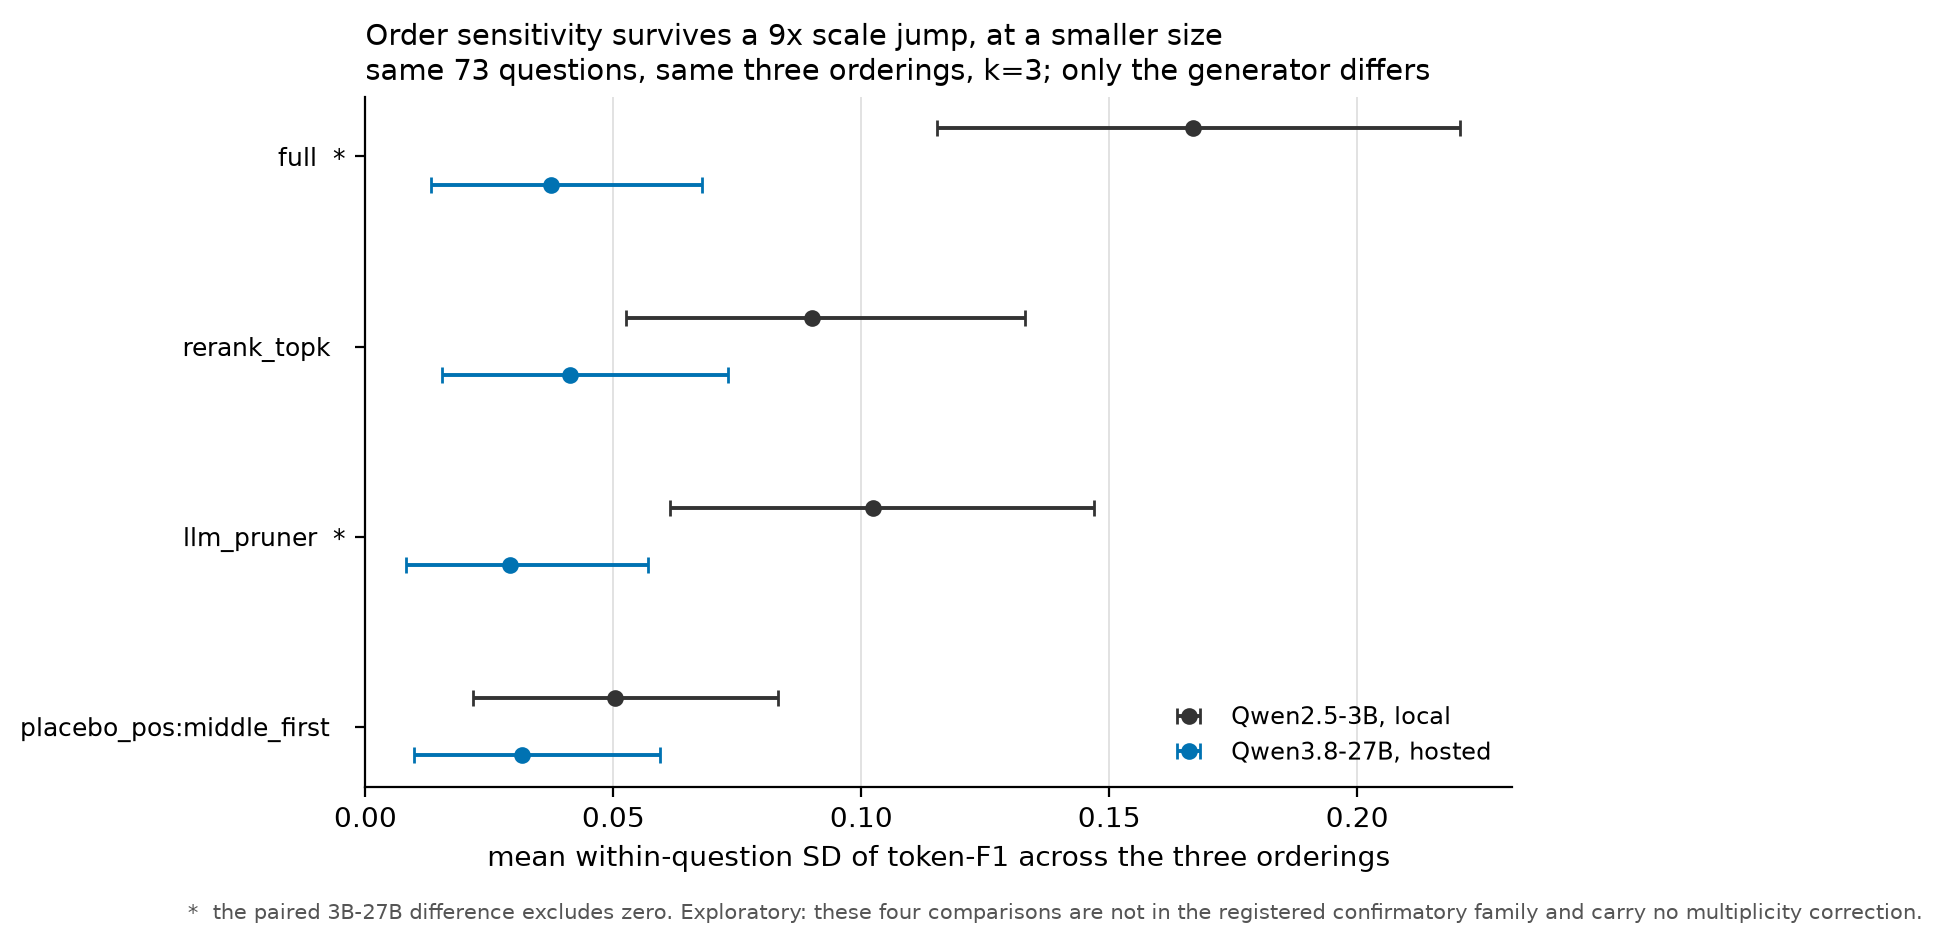
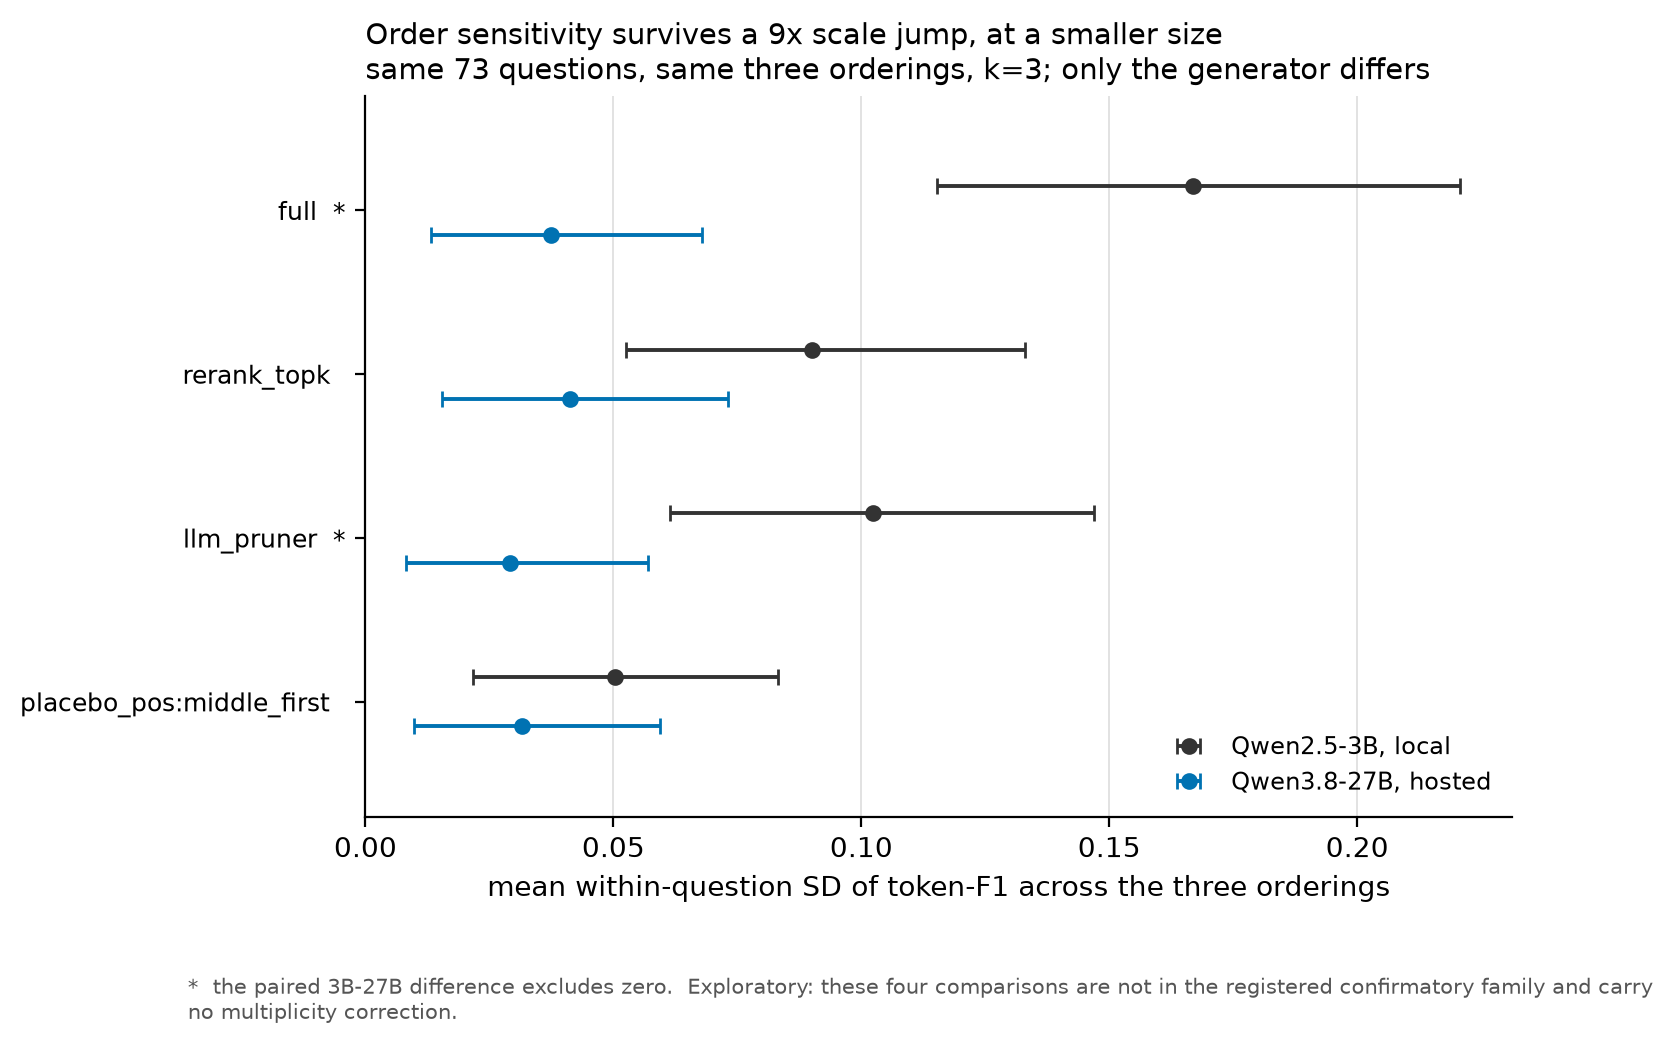
Run the registered delimiter variant; the effect is unchanged
The last registered robustness check with no result. 1,370 generations: the
full arm at k=3, the same 274 questions and the same five orderings as the main
run, with every config field but prompt_template copied from main.yaml and a
test asserting that. All 1,370 cells verified to present byte-identical passage
orders, so the two runs differ in the context fencing alone.

    default                    0.1795 [0.1554, 0.2038]
    alt, <context> fencing     0.1748 [0.1501, 0.1988]
    paired difference          0.0047 [-0.0140, 0.0239]   p = 0.6298

Ratio 1.03, nowhere near excluding zero. RQ1 is not an artifact of one prompt's
delimiter style, and the 0.1795 Sec. 4.1 quotes survives the only formatting
perturbation the plan registered.

Stated rather than left to be over-read: this varies the fencing, not the [i]
passage numbering, which changes under reordering because the indices mark
presentation slots. A template without indices is a different prompt, not a
delimiter variant, so Sec. 6 keeps the numbering as an open limitation and
Sec. 7 names it as the follow-up.

Also fixes the shared figure for a single-arm comparison: the series offsets
were stretched across the whole axis by autoscaling, so one arm measured twice
read as two unrelated rows, and the footnote collided with the axis label. The
star legend is now emitted only when something is actually starred.

diff --git a/src/matched_comparison.py b/src/matched_comparison.py
@@ -190,6 +190,7 @@ def figure(
     series_labels: tuple[str, str],
     xlabel: str,
     footnote: str,
+    star_note: str = "",
 ) -> None:
     """Both marginals drawn, significance taken from the paired difference.
 
@@ -198,7 +199,10 @@ def figure(
     """
     label_a, label_b = out["labels"]
     arms = list(out["arms"])
-    fig, ax = plt.subplots(figsize=(7.4, 0.62 * len(arms) + 2.0))
+    # One row per arm, plus headroom for the title and the legend. The legend
+    # sits inside the axes, so a single-arm figure needs the same vertical room
+    # as a four-arm one or it lands on top of the only data point.
+    fig, ax = plt.subplots(figsize=(7.4, max(0.62 * len(arms) + 2.2, 3.4)))
     ys = np.arange(len(arms))[::-1]
 
     for label, colour, offset, series in (
@@ -221,13 +225,25 @@ def figure(
         ],
         fontsize=9,
     )
+    # Pin the row band explicitly. Left to autoscale, a one-arm figure stretches
+    # the +/-0.15 series offsets across the whole axis and the pair reads as two
+    # unrelated rows rather than as one arm measured twice.
+    ax.set_ylim(-0.7, len(arms) - 0.3)
     ax.set_xlim(left=0)
     ax.set_xlabel(xlabel)
     ax.set_title(f"{title}\n{subtitle}", fontsize=10.5, loc="left")
     _style(ax)
     ax.legend(frameon=False, fontsize=8.5, loc="lower right")
+    # The star legend is only meaningful when something is starred; on a figure
+    # where nothing separates from zero it invites the reader to hunt for a mark
+    # that is not there.
+    starred = any(
+        out["arms"][a]["paired_difference"]["excludes_zero"] for a in arms
+    )
+    text = f"{star_note}  {footnote}".strip() if (starred and star_note) else footnote
     fig.text(
-        0.005, -0.02, footnote, fontsize=7.5, color="#555555", ha="left", va="top"
+        0.005, -0.06, text, fontsize=7.5, color="#555555", ha="left", va="top",
+        wrap=True,
     )
     path.parent.mkdir(parents=True, exist_ok=True)
     fig.savefig(path, dpi=200, bbox_inches="tight", facecolor="white")

diff --git a/src/generator_comparison.py b/src/generator_comparison.py
@@ -54,10 +54,10 @@ def main(budget: str = "3", n_replicates: int = 10_000, seed: int = 20260828) ->
         ),
         series_labels=("Qwen2.5-3B, local", "Qwen3.8-27B, hosted"),
         xlabel="mean within-question SD of token-F1 across the three orderings",
+        star_note="*  the paired 3B-27B difference excludes zero.",
         footnote=(
-            "*  the paired 3B-27B difference excludes zero. Exploratory: these "
-            "four comparisons are not in the registered confirmatory family and "
-            "carry no multiplicity correction."
+            "Exploratory: these four comparisons are not in the registered "
+            "confirmatory family and carry no multiplicity correction."
         ),
     )
     write(out, OUT)

diff --git a/src/delimiter_check.py b/src/delimiter_check.py
@@ -65,10 +65,10 @@ def main(budget: str = "3", n_replicates: int = 10_000, seed: int = 20260828) ->
         ),
         series_labels=("default:  passages, bare", "alt:  <context> … </context>"),
         xlabel="mean within-question SD of token-F1 across the five orderings",
+        star_note="*  the paired default-alt difference excludes zero.",
         footnote=(
-            "*  the paired default-alt difference excludes zero. A registered "
-            "robustness check (ANALYSIS_PLAN Sec. 7), reported without "
-            "multiplicity correction."
+            "A registered robustness check (ANALYSIS_PLAN Sec. 7), reported "
+            "without multiplicity correction."
         ),
     )
     write(out, OUT)

diff --git a/WRITEUP.md b/WRITEUP.md
@@ -894,6 +894,49 @@ filed that way.
 
 ---
 
+### 4.10 Robustness: the registered delimiter variant
+
+RQ1's effect is the effect of *presentation order*, and presentation order is
+carried by more than semantic position. `build_prompt` renders each passage as
+`[i] Title: text`, where `i` is its slot in the current ordering — what a
+deployed pipeline does, and what stops the permutation from being inferable from
+the labels. It does mean a reordering changes the numeric labels too, so a
+sceptic is entitled to ask how much of the effect is the model reacting to the
+formatting rather than to position.
+
+The analysis plan registered a check for this before the main run: one
+alternative delimiter style, differing from the default in the context fencing
+alone. `generate.py` enforces that at import with a real raise rather than an
+assert, so the two templates cannot drift, and a test confirms both render the
+`[i] Title: text` line identically. The check was implemented in week 2 and, as
+Section 7 recorded until now, never run. It has been: 1,370 generations, the
+un-pruned arm, the same 274 questions and the same five orderings, with all
+1,370 cells verified to present byte-identical passage orders.
+
+![Delimiter robustness](results/robustness_delimiter/figures/delimiter_sd.png)
+
+| mean within-question SD, `full`, k=3, n=274 | |
+|---|---|
+| default (`{context}` bare) | 0.1795 [0.1554, 0.2038] |
+| alt (`<context>` … `</context>`) | 0.1748 [0.1501, 0.1988] |
+| paired difference | **0.0047 [-0.0140, 0.0239]**, p = 0.6298 |
+
+**The effect is unchanged.** The two estimates differ by 0.0047, a ratio of
+1.03, and the paired difference does not come close to excluding zero. Fencing
+the context in explicit tags neither creates nor removes the permutation
+sensitivity. RQ1 is not an artifact of one prompt's delimiter style, and the
+0.1795 that Section 4.1 quotes survives the only formatting perturbation the
+plan registered.
+
+**What this does not settle.** It varies the fencing, not the `[i]` numbering.
+A template that dropped the indices would change how the model is told the
+passages are separate at all, which is a different prompt rather than a
+delimiter variant, so the numbering contribution remains bounded only by the
+argument that positional numbering is what a real pipeline does. Section 6 keeps
+that as a stated limitation rather than a closed question.
+
+---
+
 ## 5. Discussion
 
 **The two central results are in tension, and the tension is the point.** RQ1
@@ -1021,8 +1064,10 @@ passage as `[i] Title: text` where `i` is its slot in the current ordering, whic
 is what a deployed pipeline does and is what keeps the permutation from being
 inferable. It does mean a reordering changes the numeric labels as well as the
 positions, so the RQ1 effect is the effect of presentation order inclusive of its
-labelling and not of position in isolation. The registered delimiter-variant
-check would bound this and has not been run (Section 7).
+labelling and not of position in isolation. The registered delimiter variant
+(Section 4.10) shows the effect is not an artifact of the context *fencing* —
+the paired difference is 0.0047 [-0.0140, 0.0239] — but it does not separate the
+numbering from the position, and nothing here does.
 
 **"Rank" is the dataset's as-given order.** HotpotQA distractor has no retriever,
 so the reference ordering is the dataset's own paragraph order rather than a
@@ -1098,19 +1143,13 @@ no-derivatives licence, which restricts reuse of that arm outside research.
 - **The mechanism behind the RQ2 null is untested.** Section 5 proposes that a
   selector's advantage should track the dispersion of per-passage leave-one-out
   drops within a question. The data to test it is already collected.
-- **One registered robustness check was never run.** The analysis plan's
-  robustness list includes a prompt-template variant: an alternative delimiter
-  style, identical to the main template in instruction wording and answer cue and
-  differing only in how passages are fenced. It is implemented (`ALT_TEMPLATE`,
-  reachable as `prompt_template: alt`) and guarded by a test asserting it differs
-  from the default in the delimiters alone, but no config uses it and it has no
-  results. It should be run, and it is cheap — one arm, one budget, the existing
-  population, roughly 1,400 local generations. It matters more than its size
-  suggests, because passages are numbered by presentation position (`[1]`, `[2]`,
-  …), so a reordering changes those labels as well as the semantic order, and
-  this is the check that bounds how much of the RQ1 effect is the numbering
-  rather than the position. Reported here as an omission rather than left to be
-  discovered from the plan.
+- **Separating the numbering from the position.** Section 4.10 shows the effect
+  survives a change of context fencing, which was the registered check and is now
+  run. It does not separate the `[i]` labels from the positions they mark, and
+  that would need a template with no indices at all — a different prompt rather
+  than a delimiter variant, since it changes how the model is told the passages
+  are separate. Worth doing, and worth stating as a change of prompt rather than
+  filed under robustness.
 - **A second dataset is prepared but not run.** The loader and config for
   2WikiMultihopQA exist and are tested, so the protocol transfers without
   modification: the same ten paragraphs per question and the same column layout.

diff --git a/README.md b/README.md
@@ -44,6 +44,11 @@ questions return a byte-identical answer under all five orderings.
 
 ![Within-question variation under reordering](results/main_hotpotqa/figures/rq1_permutation_sd.png)
 
+Not a formatting artifact: re-running the whole thing with the context fenced in
+`<context>` tags instead of bare moves the effect by **0.0047** token-F1
+([-0.0140, 0.0239]), which is nothing. That was a check registered before the
+main run.
+
 **2. But pruning methods really are selecting on content, not position.** This
 was the study's main hypothesis and it did not survive contact with the data,
 which is the useful outcome. We built a placebo that drops the same number of
@@ -155,6 +160,7 @@ python -m pip install -r requirements.txt      # torch must come from the CUDA i
 | Selection-stability probe | `python -m src.selection_probe --config configs/main.yaml --n 100` |
 | Hosted 27B replication | `python -m src.run --config configs/replication.yaml` |
 | Matched 3B vs 27B comparison | `python -m src.generator_comparison` |
+| Delimiter robustness check | `python -m src.run --config configs/robustness_delimiter.yaml` then `python -m src.delimiter_check` |
 | Tests | `python -m pytest -q -m "not network"` |
 
 Every generation is cached on a hash of the model, prompt and decode parameters,
@@ -175,6 +181,7 @@ numbers are meaningless by construction), `--n 20` shrinks the question set,
 | robustness: same analysis on the unfiltered 300 | done |
 | hosted cross-generator replication at 27B, 1,655 calls | done |
 | determinism audit of the hosted generator | done, 50/50 across three days |
+| registered robustness: prompt-delimiter variant | done, effect unchanged |
 
 **241 tests** pass (`python -m pytest -q -m "not network"`, about 15s). Three
 more are marked `network` and download the dataset on first run.
